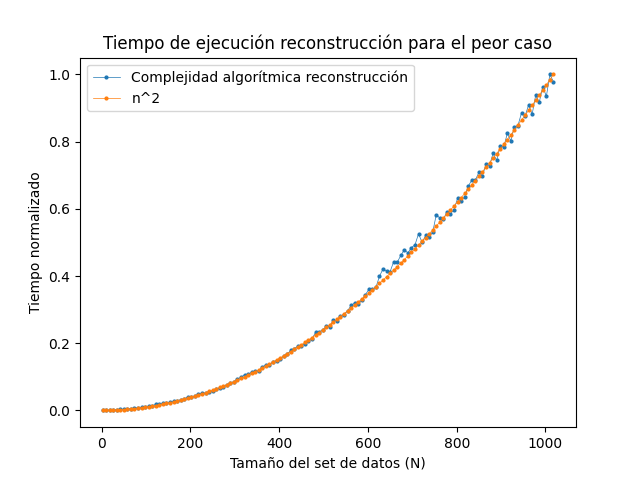
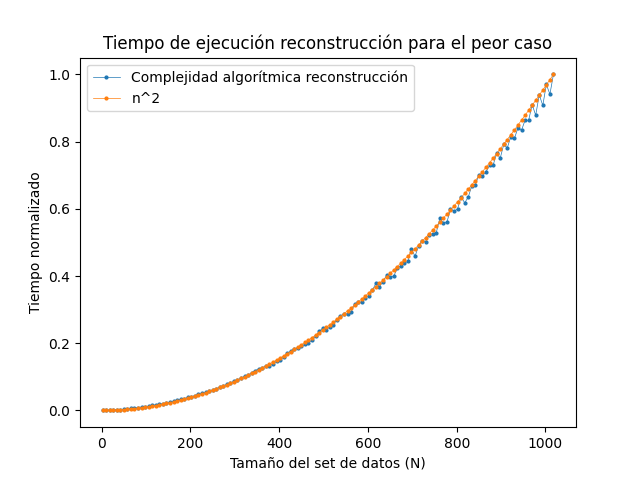
Actualizar graficos de complejidad

diff --git a/tp2/complejidad_algoritmica.py b/tp2/complejidad_algoritmica.py
@@ -60,9 +60,8 @@ def generar_grafico(tamanios, curves, labels, titulo, nombre_archivo):
     plt.savefig(nombre_archivo)
 
 
-def complejidad_mejor_caso():
-    tamanios = range(2, 2 ** 10, 8)
-    experimentos = generar_mejor_caso(tamanios, 10)
+def complejidad_mejor_caso(tamanios, cantidad_experimentos):
+    experimentos = generar_mejor_caso(tamanios, cantidad_experimentos)
 
     t_total = []
     t_entrenamientos = []
@@ -102,8 +101,7 @@ def complejidad_mejor_caso():
                     'Tiempo de ejecución total para el mejor caso', 'graficos/complejidad_total_mejor_caso.png')
 
 
-def complejidad_peor_caso():
-    tamanios = range(2, 2 ** 10, 8)
+def complejidad_peor_caso(tamanios):
     experimentos = generar_peor_caso(tamanios)
 
     t_total = []
@@ -134,12 +132,14 @@ def complejidad_peor_caso():
 
 
 def main():
-    complejidad_mejor_caso()
-    return
-
     random.seed(42)
     tamanios = range(2, 2 ** 10, 8)
-    experimentos = generar_experimentos(tamanios, 10)
+    cantidad_experimentos = 10
+
+    complejidad_mejor_caso(tamanios, cantidad_experimentos)
+    complejidad_peor_caso(tamanios)
+
+    experimentos = generar_experimentos(tamanios, cantidad_experimentos)
     t_total = []
     t_entrenamientos = []
     t_reconstruccion = []
